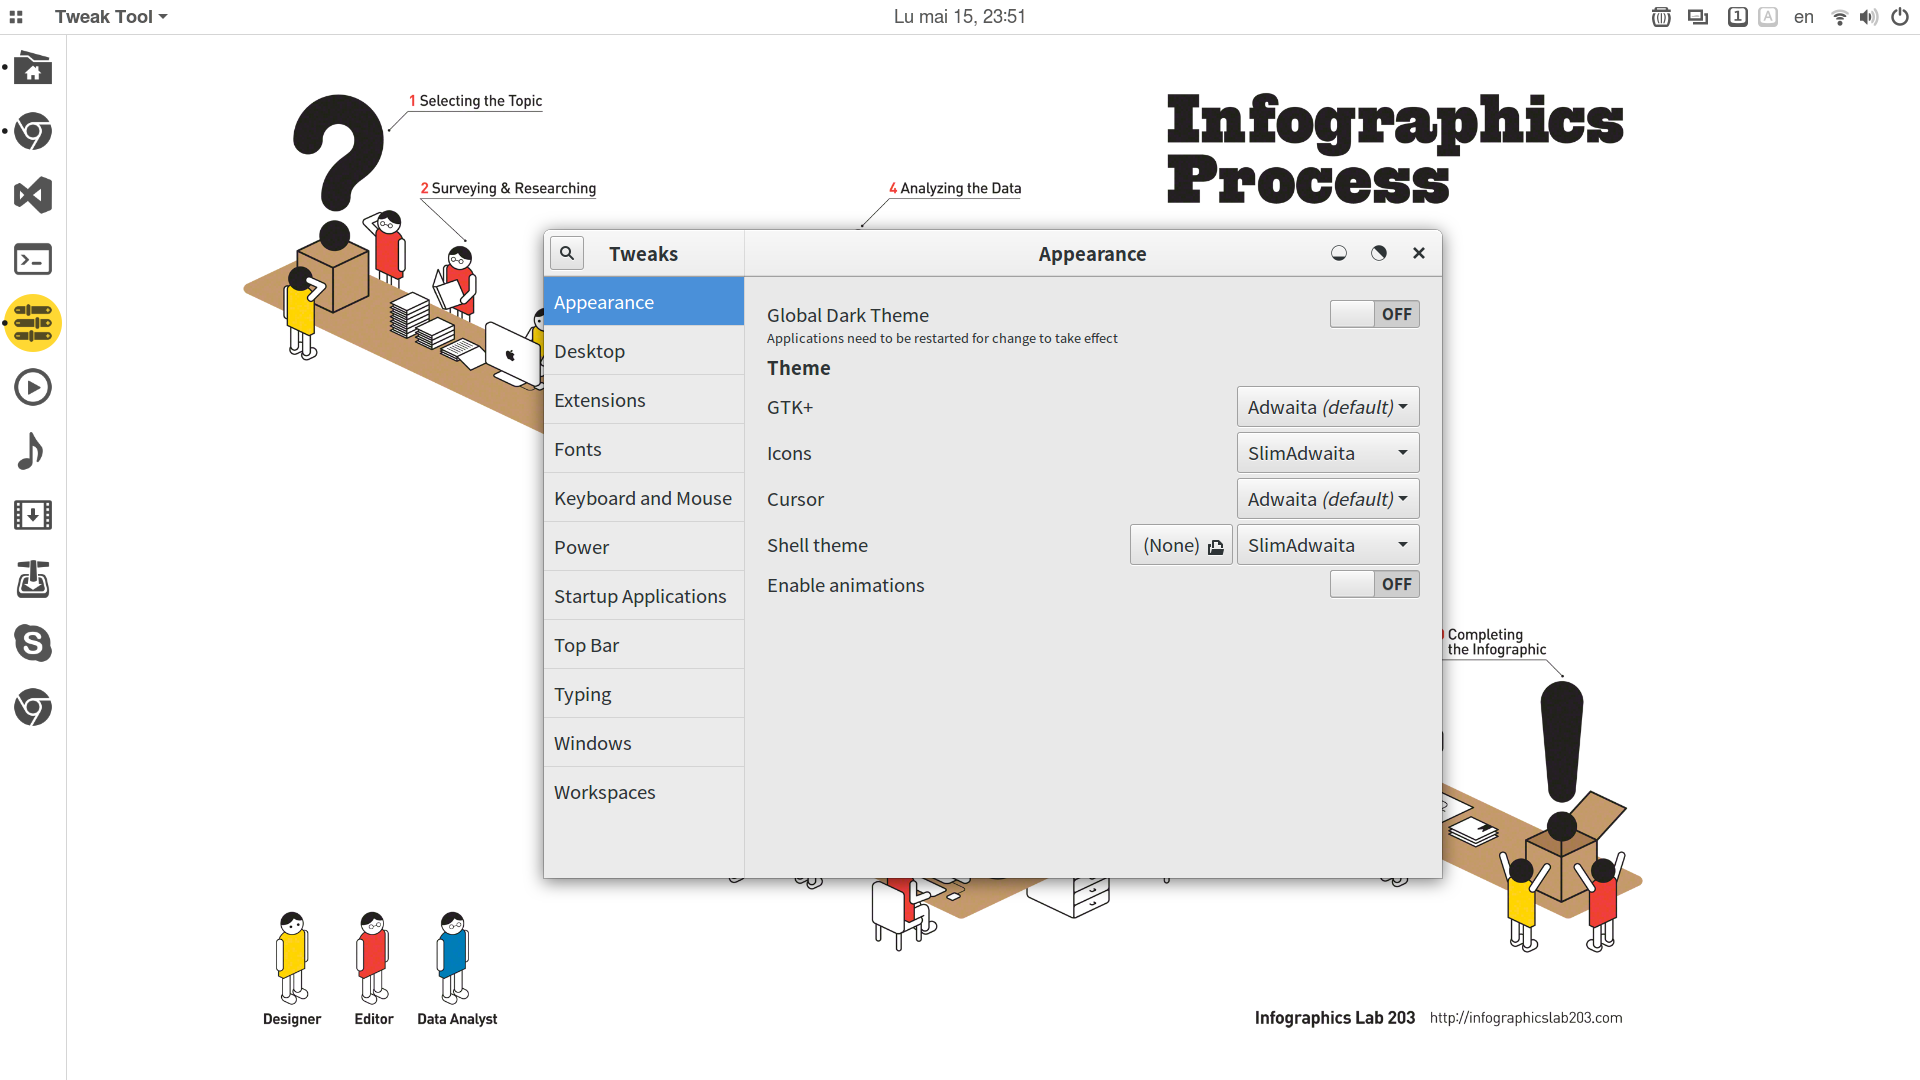
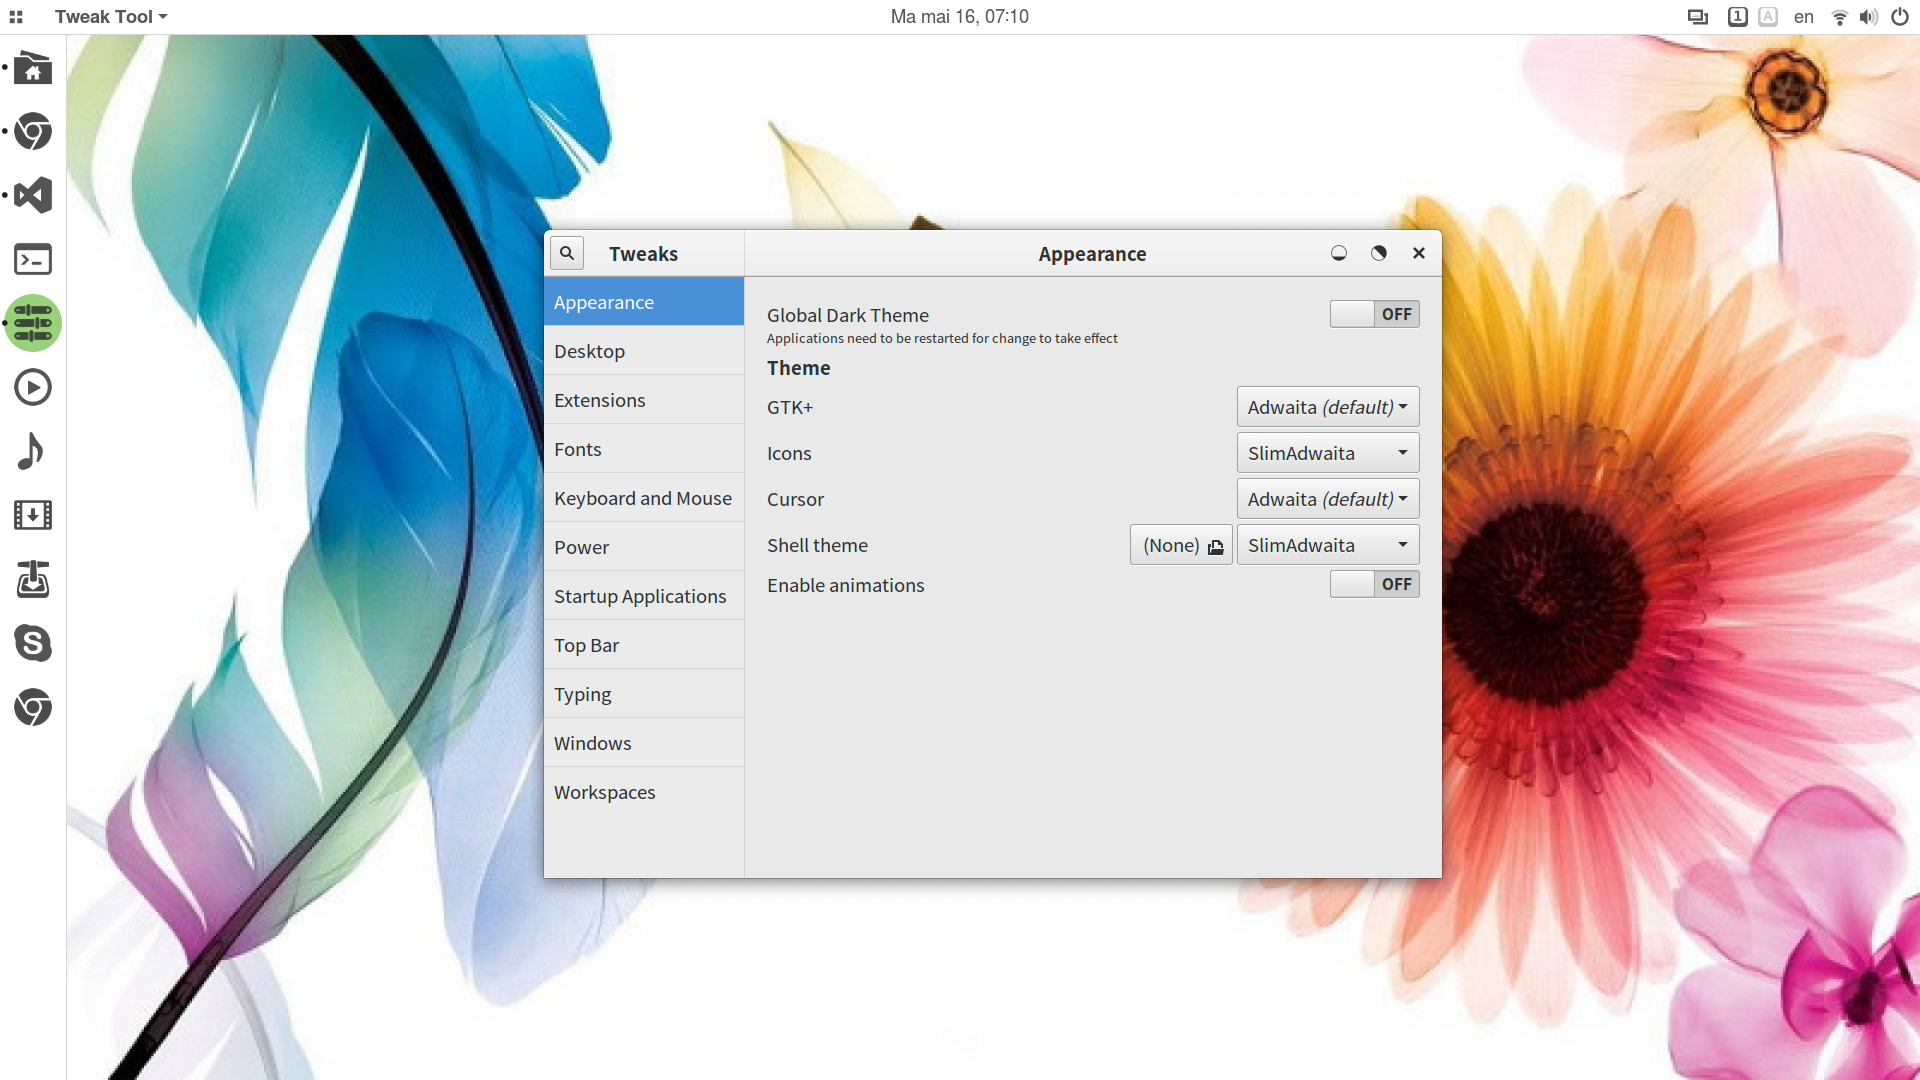
green for dash active

diff --git a/.local/share/gnome-shell/extensions/dash-to-dock@micxgx.gmail.com/stylesheet.css b/.local/share/gnome-shell/extensions/dash-to-dock@micxgx.gmail.com/stylesheet.css
@@ -112,12 +112,12 @@
     /*background-color: #FCE279;*/
     /*background-color: #7CCAFB;*/
     /*background-color: #a6caf0;*/
-    /*background-color: #99D17B;*/
+    background-color: #99D17B;
     /*background-color: #ABDAB6;*/
     /*background-color: #FFE435;*/
     /*background-color: #C0DA74;*/
     /*background-color: #9DE27C;*/
-    background-color: #ffd833;
+    /*background-color: #ffd833;*/
     /*background-color: pink;*/
     /*background-color:rgba(193,193,193,1);*/
     background-image:none;
